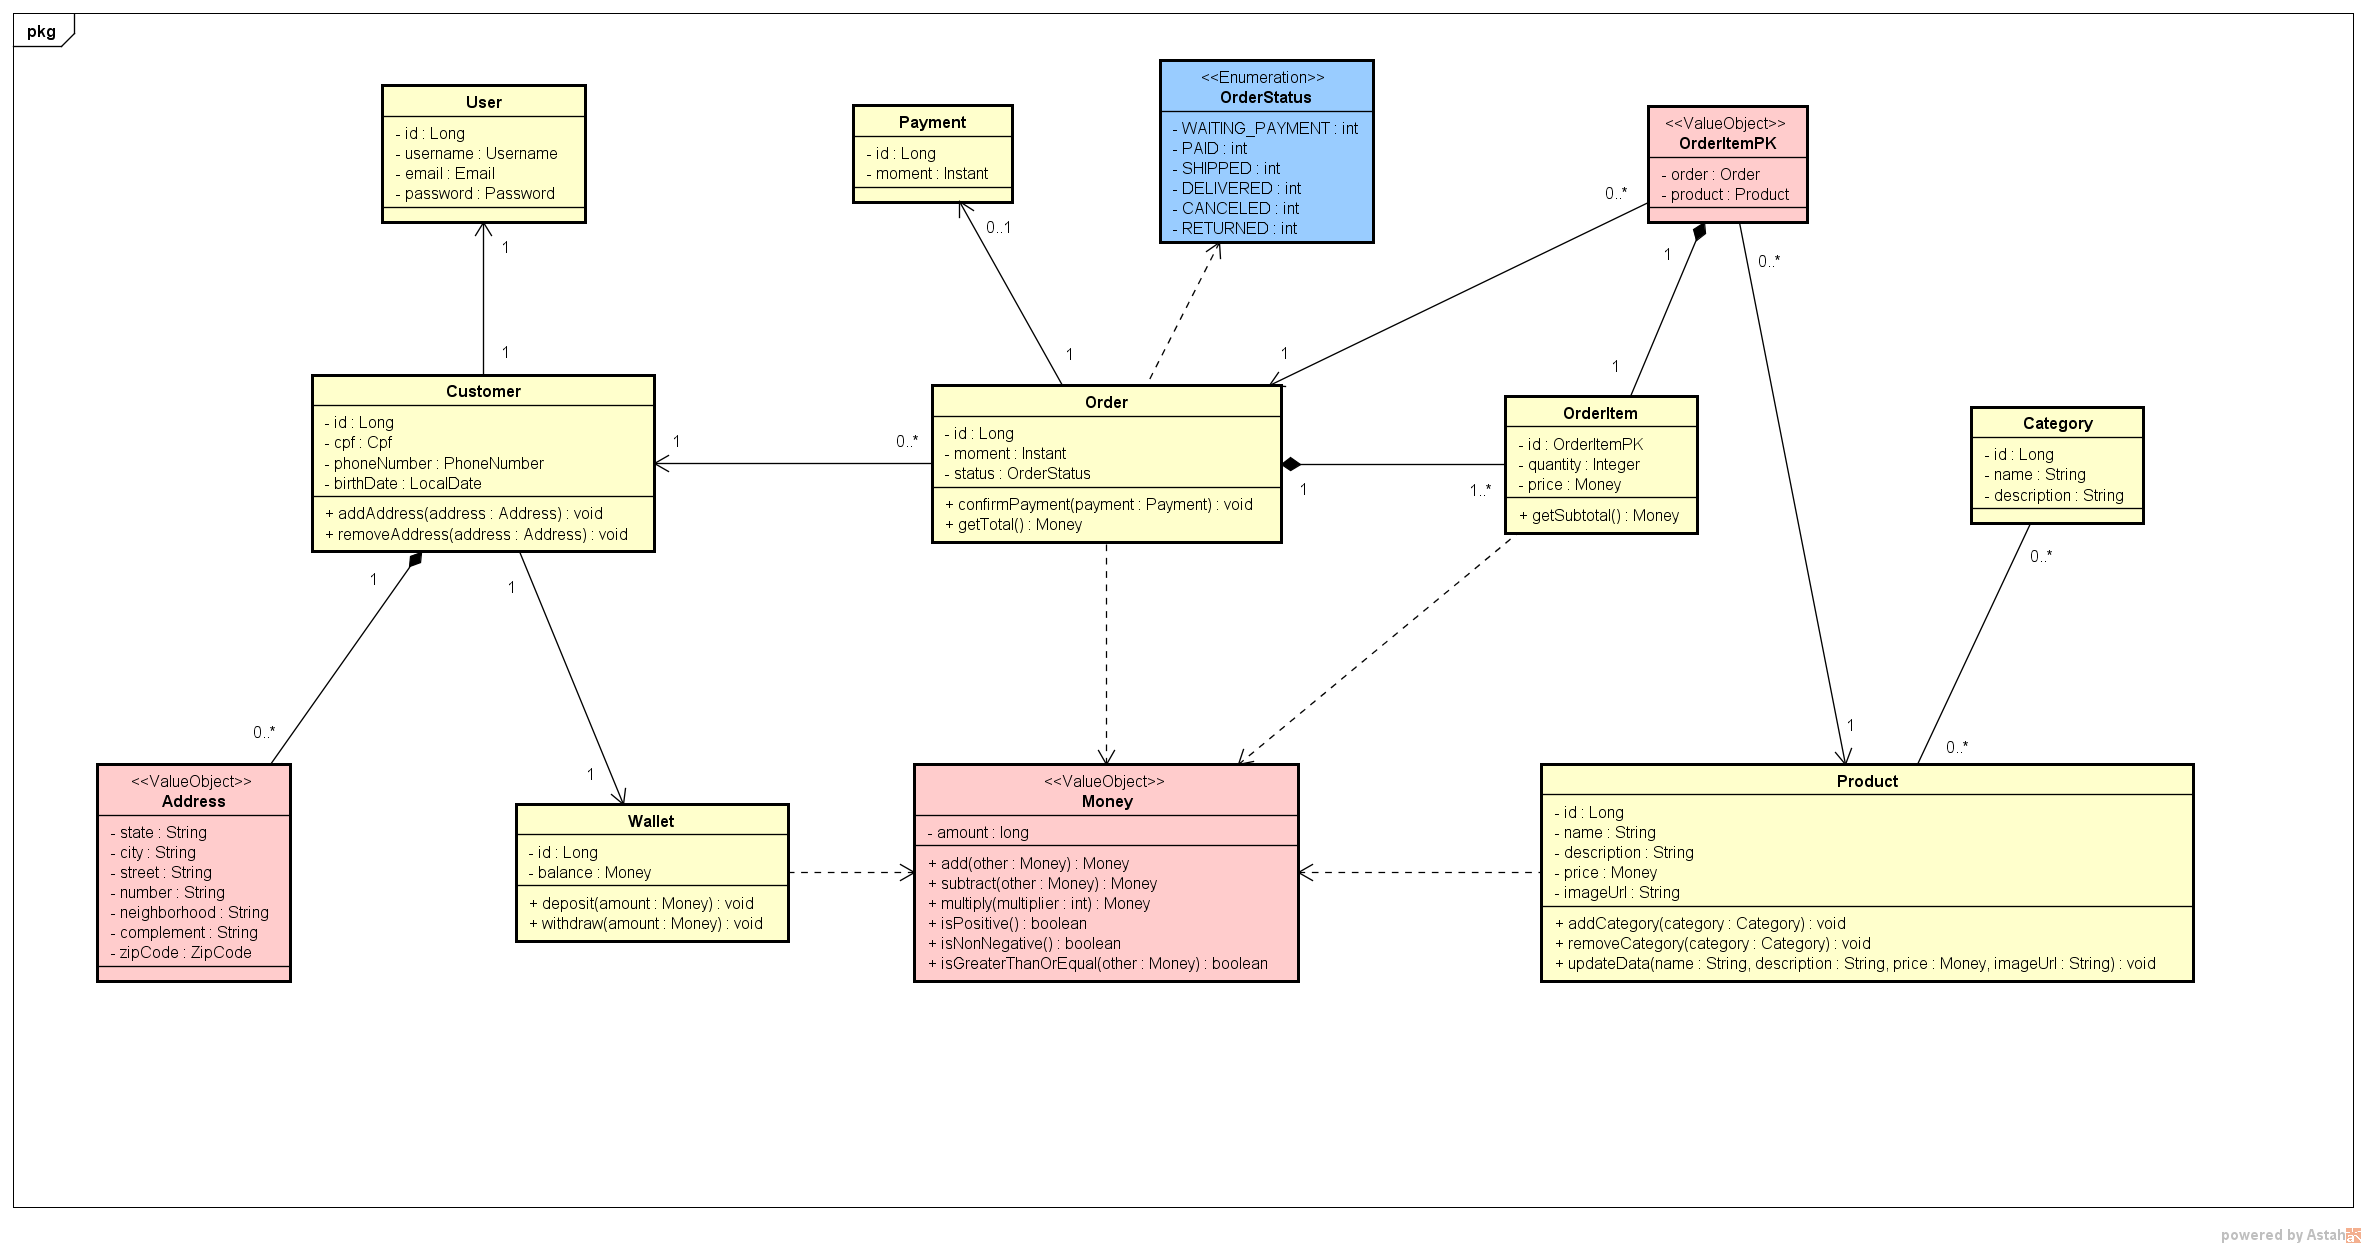
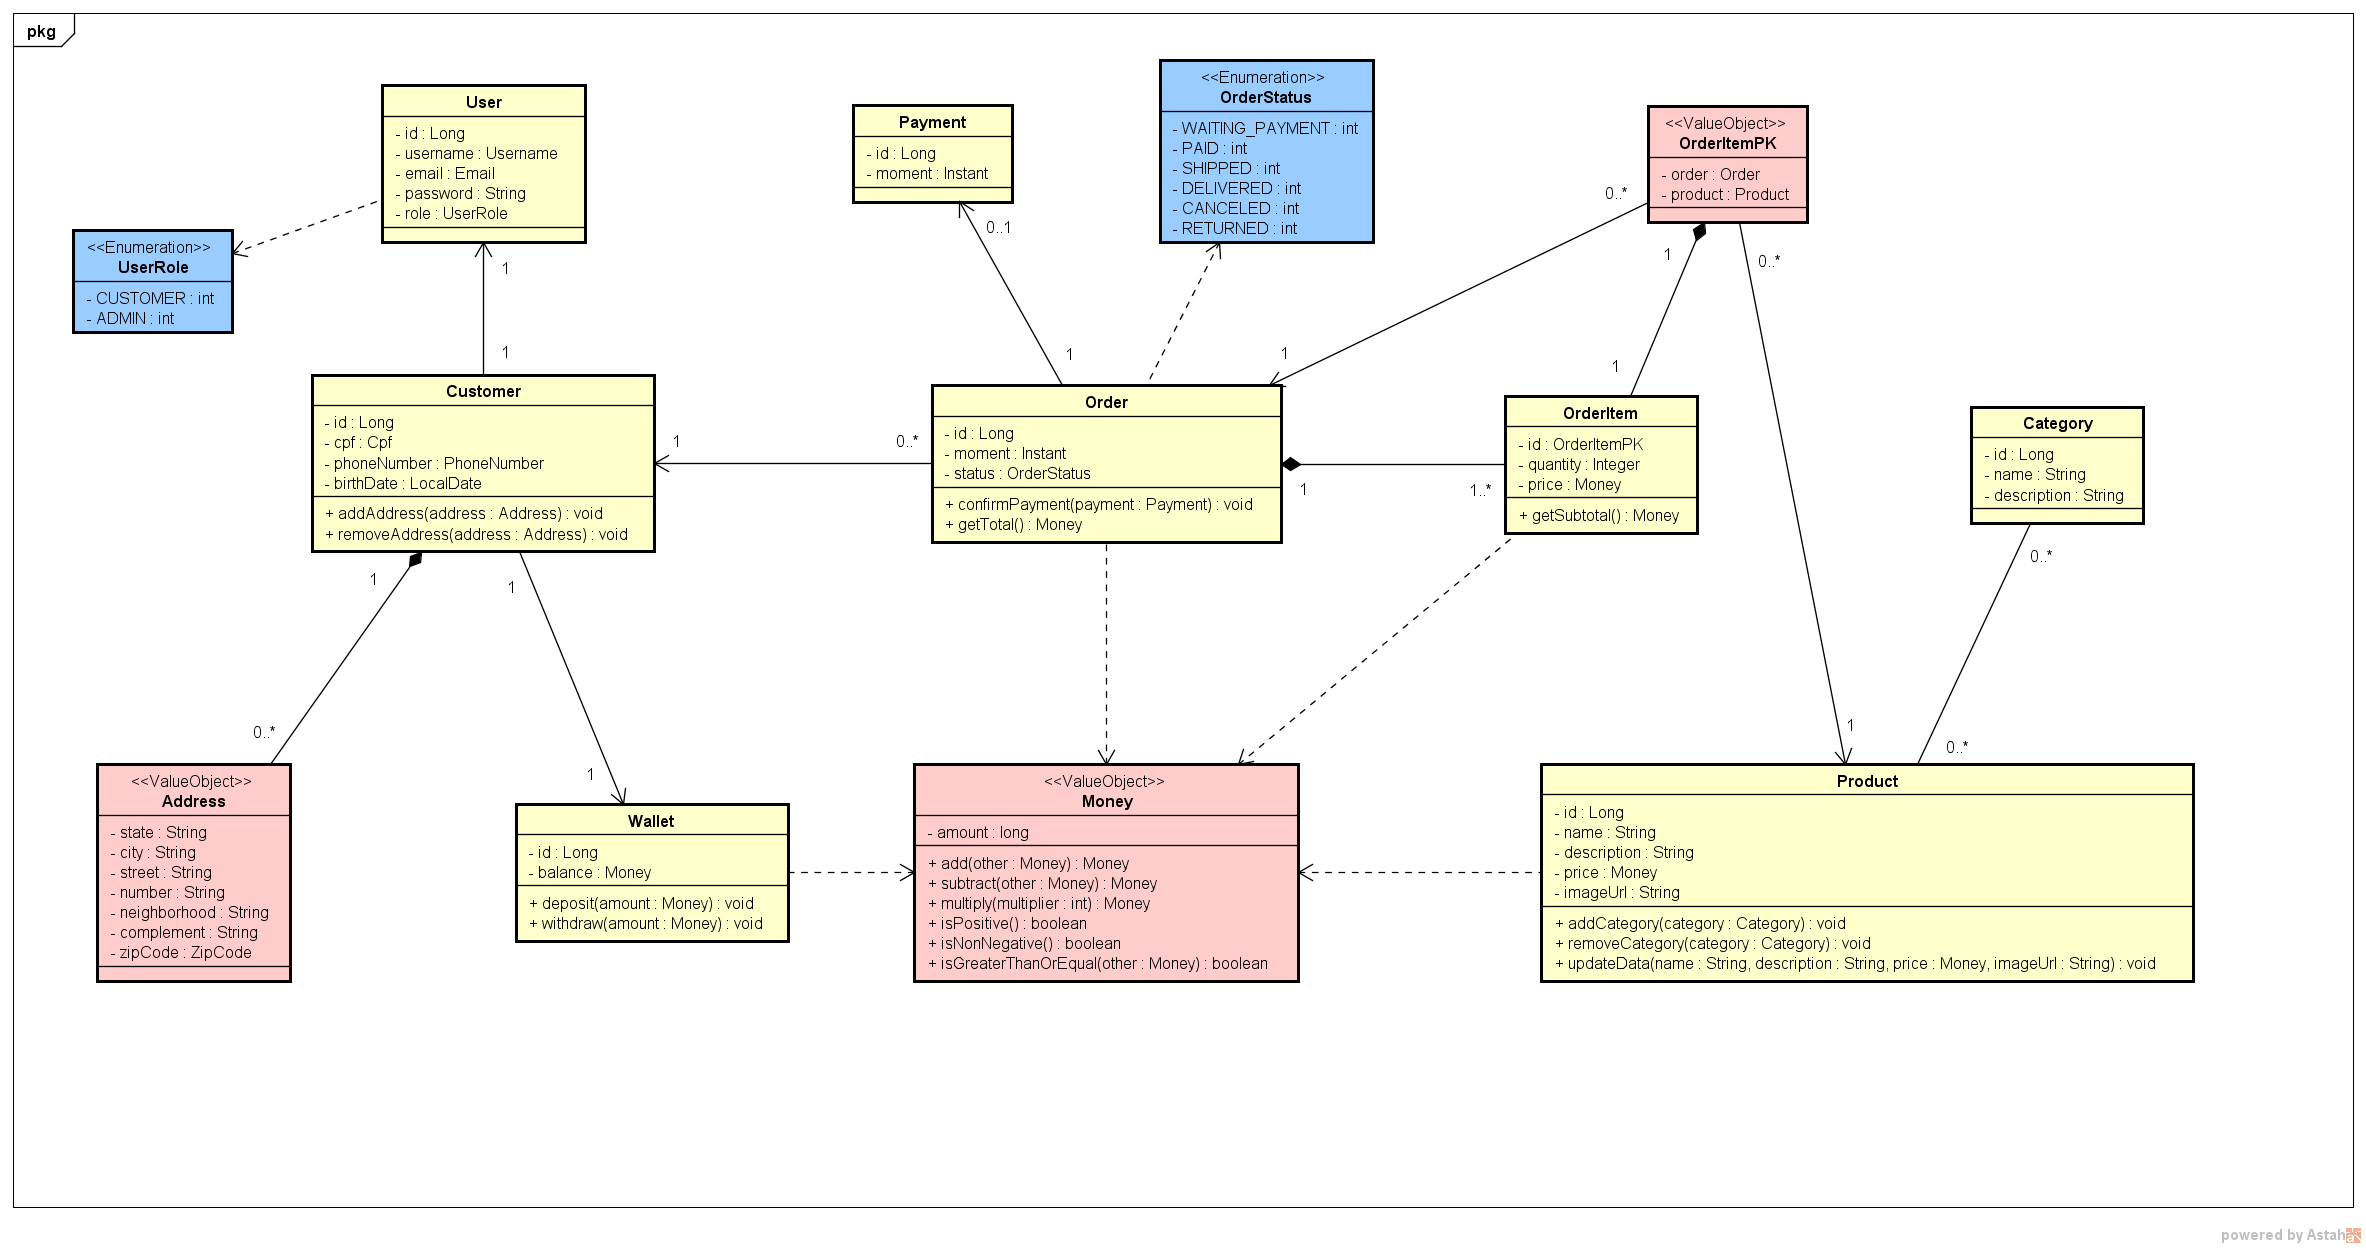
Security, registration use case and DTOs

Changed region(s): [[0.0309, 0.1562, 0.1234, 0.2812], [0.1543, 0.1562, 0.2468, 0.2188]]

diff --git a/src/main/java/io/github/theisson/ecommerce/services/application/RegisterCustomer.java b/src/main/java/io/github/theisson/ecommerce/services/application/RegisterCustomer.java
@@ -1,0 +1,71 @@
+package io.github.theisson.ecommerce.services.application;
+
+import org.springframework.beans.factory.annotation.Value;
+import org.springframework.security.crypto.password.PasswordEncoder;
+import org.springframework.stereotype.Service;
+import org.springframework.transaction.annotation.Transactional;
+import io.github.theisson.ecommerce.dto.CustomerRequestDTO;
+import io.github.theisson.ecommerce.dto.CustomerResponseDTO;
+import io.github.theisson.ecommerce.exceptions.DatabaseException;
+import io.github.theisson.ecommerce.models.entities.Customer;
+import io.github.theisson.ecommerce.models.entities.User;
+import io.github.theisson.ecommerce.models.types.*;
+import io.github.theisson.ecommerce.repositories.CustomerRepository;
+import io.github.theisson.ecommerce.repositories.UserRepository;
+
+@Service
+public class RegisterCustomer {
+    
+    private final CustomerRepository customerRepository;
+    private final UserRepository userRepository;
+    private final PasswordEncoder passwordEncoder;
+    private final String pepper;
+
+    public RegisterCustomer(
+        CustomerRepository customerRepository, 
+        UserRepository userRepository,
+        PasswordEncoder passwordEncoder,
+        @Value("${app.security.password.pepper}") String pepper
+    ) {
+        this.customerRepository = customerRepository;
+        this.userRepository = userRepository;
+        this.passwordEncoder = passwordEncoder;
+        this.pepper = pepper;
+    }
+
+    @Transactional
+    public CustomerResponseDTO execute(CustomerRequestDTO dto) {
+        if (userRepository.findByEmail(dto.email()).isPresent()) {
+            throw new DatabaseException("E-mail já cadastrado.");
+        }
+
+        if (userRepository.findByUsername(dto.username()).isPresent()) {
+            throw new DatabaseException("Nome de usuário já cadastrado.");
+        }
+
+        if (customerRepository.findByCpf(dto.cpf()).isPresent()) {
+            throw new DatabaseException("CPF já cadastrado.");
+        }
+
+        String pepperedPassword = dto.password() + pepper;
+        String hash = passwordEncoder.encode(pepperedPassword);
+
+        User user = new User(
+            new Username(dto.username()),
+            new Email(dto.email()),
+            hash,
+            UserRole.CUSTOMER
+        );
+
+        Customer customer = new Customer(
+            user,
+            new Cpf(dto.cpf()),
+            new PhoneNumber(dto.phoneNumber()),
+            dto.birthDate()
+        );
+
+        customer = customerRepository.save(customer);
+
+        return new CustomerResponseDTO(customer);
+    }
+}

diff --git a/src/main/java/io/github/theisson/ecommerce/controllers/CustomerController.java b/src/main/java/io/github/theisson/ecommerce/controllers/CustomerController.java
@@ -1,0 +1,36 @@
+package io.github.theisson.ecommerce.controllers;
+
+import java.net.URI;
+import org.springframework.http.ResponseEntity;
+import org.springframework.web.bind.annotation.PostMapping;
+import org.springframework.web.bind.annotation.RequestBody;
+import org.springframework.web.bind.annotation.RequestMapping;
+import org.springframework.web.bind.annotation.RestController;
+import org.springframework.web.servlet.support.ServletUriComponentsBuilder;
+import io.github.theisson.ecommerce.dto.CustomerRequestDTO;
+import io.github.theisson.ecommerce.dto.CustomerResponseDTO;
+import io.github.theisson.ecommerce.services.application.RegisterCustomer;
+import jakarta.validation.Valid;
+
+@RestController
+@RequestMapping("/customers")
+public class CustomerController {
+    
+    private final RegisterCustomer registerCustomer;
+
+    public CustomerController(RegisterCustomer registerCustomer) {
+        this.registerCustomer = registerCustomer;
+    }
+
+    @PostMapping
+    public ResponseEntity<CustomerResponseDTO> register(@Valid @RequestBody CustomerRequestDTO dto) {
+        CustomerResponseDTO newCustomer = registerCustomer.execute(dto);
+
+        URI uri = ServletUriComponentsBuilder.fromCurrentRequest()
+            .path("/{id}")
+            .buildAndExpand(newCustomer.id())
+            .toUri();
+
+        return ResponseEntity.created(uri).body(newCustomer);
+    }
+}

diff --git a/src/main/java/io/github/theisson/ecommerce/services/security/UserDetailsServiceImpl.java b/src/main/java/io/github/theisson/ecommerce/services/security/UserDetailsServiceImpl.java
@@ -1,0 +1,33 @@
+package io.github.theisson.ecommerce.services.security;
+
+import org.springframework.security.core.userdetails.UserDetails;
+import org.springframework.security.core.userdetails.UserDetailsService;
+import org.springframework.security.core.userdetails.UsernameNotFoundException;
+import org.springframework.stereotype.Service;
+import org.springframework.transaction.annotation.Transactional;
+import io.github.theisson.ecommerce.models.entities.User;
+import io.github.theisson.ecommerce.repositories.UserRepository;
+
+@Service
+public class UserDetailsServiceImpl implements UserDetailsService {
+    
+    private final UserRepository userRepository;
+
+    public UserDetailsServiceImpl(UserRepository userRepository) {
+        this.userRepository = userRepository;
+    }
+
+    @Override
+    @Transactional(readOnly = true)
+    public UserDetails loadUserByUsername(String login) throws UsernameNotFoundException {
+        User user = userRepository.findByEmail(login)
+            .or(() -> userRepository.findByUsername(login))
+            .orElseThrow(() -> new UsernameNotFoundException("Usuário não encontrado."));
+
+        return org.springframework.security.core.userdetails.User.builder()
+            .username(user.getEmail())
+            .password(user.getPassword())
+            .roles(user.getRole().name())
+            .build();    
+    }
+}

diff --git a/src/main/java/io/github/theisson/ecommerce/dto/CustomerRequestDTO.java b/src/main/java/io/github/theisson/ecommerce/dto/CustomerRequestDTO.java
@@ -1,0 +1,33 @@
+package io.github.theisson.ecommerce.dto;
+
+import java.time.LocalDate;
+
+import jakarta.validation.constraints.*;
+
+public record CustomerRequestDTO(
+
+    @NotBlank(message = "Campo requerido")
+    @Size(min = 3, max = 20, message = "Nome de usuário deve ter entre 3 e 20 caracteres")
+    @Pattern(regexp = "[a-zA-Z0-9]+", message = "Nome de usuário deve conter apenas letras e números")
+    String username,
+
+    @NotBlank(message = "Campo requerido")
+    @Email(message = "E-mail inválido")
+    String email,
+
+    @NotBlank(message = "Campo requerido")
+    @Size(min = 8, message = "A senha deve conter pelo menos 8 caracteres")
+    String password,
+
+    @NotBlank(message = "Campo requerido")
+    @Pattern(regexp = "\\d{11}", message = "CPF deve conter exatamente 11 dígitos numéricos")
+    String cpf,
+
+    @NotNull(message = "Campo requerido")
+    @Past(message = "A data de nascimento deve ser uma data passada")
+    LocalDate birthDate,
+
+    @NotBlank(message = "Campo requerido")
+    @Pattern(regexp = "^[1-9]{2}(?:[2-8]\\d{7}|9\\d{8})$", message = "Número de telefone inválido")
+    String phoneNumber
+) {}

diff --git a/src/main/java/io/github/theisson/ecommerce/config/SecurityConfig.java b/src/main/java/io/github/theisson/ecommerce/config/SecurityConfig.java
@@ -1,0 +1,33 @@
+package io.github.theisson.ecommerce.config;
+
+import org.springframework.context.annotation.Bean;
+import org.springframework.context.annotation.Configuration;
+import org.springframework.security.config.annotation.web.builders.HttpSecurity;
+import org.springframework.security.crypto.argon2.Argon2PasswordEncoder;
+import org.springframework.security.crypto.password.PasswordEncoder;
+import org.springframework.security.web.SecurityFilterChain;
+
+@Configuration
+public class SecurityConfig {
+    
+    @Bean
+    public PasswordEncoder passwordEncoder() {
+        return new Argon2PasswordEncoder(16, 32, 4, 65536, 3);
+    }
+
+    @Bean
+    public SecurityFilterChain securityFilterChain(HttpSecurity http) throws Exception {
+        http
+            .csrf(csrf -> csrf
+                .ignoringRequestMatchers("/h2-console/**")
+            )
+            .headers(headers -> headers
+                .frameOptions(frame -> frame.sameOrigin())
+            )
+            .authorizeHttpRequests(auth -> auth
+                .anyRequest().permitAll()
+            );
+
+        return http.build();
+    }
+}

diff --git a/src/main/java/io/github/theisson/ecommerce/models/entities/User.java b/src/main/java/io/github/theisson/ecommerce/models/entities/User.java
@@ -17,15 +17,20 @@ public class User {
     @Embedded
     private Email email;
 
-    @Embedded
-    private Password password;
+    @Column(name = "password", nullable = false, length = 255)
+    private String password;
+
+    @Column(nullable = false)
+    @Enumerated(EnumType.STRING)
+    private UserRole role;
 
     protected User() {}
 
-    public User(Username username, Email email, Password password) {
+    public User(Username username, Email email, String password, UserRole role) {
         this.username = username;
         this.email = email;
         this.password = password;
+        this.role = role;
     }
 
     public Long getId() {
@@ -41,6 +46,10 @@ public class User {
     }
 
     public String getPassword() {
-        return password.getValue();
-    }    
+        return password;
+    }
+
+    public UserRole getRole() {
+        return role;
+    }
 }

diff --git a/src/main/java/io/github/theisson/ecommerce/repositories/UserRepository.java b/src/main/java/io/github/theisson/ecommerce/repositories/UserRepository.java
@@ -1,0 +1,19 @@
+package io.github.theisson.ecommerce.repositories;
+
+import java.util.Optional;
+
+import org.springframework.data.jpa.repository.JpaRepository;
+import org.springframework.data.jpa.repository.Query;
+import org.springframework.data.repository.query.Param;
+import org.springframework.stereotype.Repository;
+import io.github.theisson.ecommerce.models.entities.User;
+
+@Repository
+public interface UserRepository extends JpaRepository<User, Long> {
+    
+    @Query("SELECT u FROM User u WHERE u.email.email = :email")
+    Optional<User> findByEmail(@Param("email") String email);
+    
+    @Query("SELECT u FROM User u WHERE u.username.username = :username")
+    Optional<User> findByUsername(@Param("username") String username);
+}

diff --git a/src/main/java/io/github/theisson/ecommerce/dto/CustomerResponseDTO.java b/src/main/java/io/github/theisson/ecommerce/dto/CustomerResponseDTO.java
@@ -1,0 +1,26 @@
+package io.github.theisson.ecommerce.dto;
+
+import java.time.LocalDate;
+
+import io.github.theisson.ecommerce.models.entities.Customer;
+
+public record CustomerResponseDTO(
+    Long id,
+    String username,
+    String email,
+    String cpf,
+    LocalDate birthDate,
+    String phoneNumber
+) {
+    
+    public CustomerResponseDTO(Customer entity) {
+        this(
+            entity.getId(),
+            entity.getUser().getUsername(),
+            entity.getUser().getEmail(),
+            entity.getCpf(),
+            entity.getBirthDate(),
+            entity.getPhoneNumber()
+        );
+    }
+}

diff --git a/src/main/java/io/github/theisson/ecommerce/repositories/CustomerRepository.java b/src/main/java/io/github/theisson/ecommerce/repositories/CustomerRepository.java
@@ -1,0 +1,17 @@
+package io.github.theisson.ecommerce.repositories;
+
+import java.util.Optional;
+
+import org.springframework.data.jpa.repository.JpaRepository;
+import org.springframework.data.jpa.repository.Query;
+import org.springframework.data.repository.query.Param;
+import org.springframework.stereotype.Repository;
+
+import io.github.theisson.ecommerce.models.entities.Customer;
+
+@Repository
+public interface CustomerRepository extends JpaRepository<Customer, Long> {
+    
+    @Query("SELECT c FROM Customer c WHERE c.cpf.cpf = :cpf")
+    Optional<Customer> findByCpf(@Param("cpf") String cpf);
+}

diff --git a/src/main/java/io/github/theisson/ecommerce/models/types/Email.java b/src/main/java/io/github/theisson/ecommerce/models/types/Email.java
@@ -7,6 +7,7 @@ import jakarta.persistence.Embeddable;
 
 @Embeddable
 public final class Email {
+    
     private static final String EMAIL_PATTERN = "^[a-zA-Z0-9.!#$%&'*+/=?^_`{|}~-]+@((\\[[0-9]{1,3}\\.[0-9]{1,3}\\.[0-9]{1,3}\\.[0-9]{1,3}\\])|(([a-zA-Z\\-0-9]+\\.)+[a-zA-Z]{2,}))$";
     private static final Pattern PATTERN = Pattern.compile(EMAIL_PATTERN);
 

diff --git a/src/main/java/io/github/theisson/ecommerce/models/types/Money.java b/src/main/java/io/github/theisson/ecommerce/models/types/Money.java
@@ -5,6 +5,7 @@ import java.math.BigDecimal;
 import java.util.Objects;
 
 public final class Money implements Serializable {
+    
     private final long amount;
 
     public Money(long amount) {

diff --git a/src/main/java/io/github/theisson/ecommerce/models/types/OrderStatus.java b/src/main/java/io/github/theisson/ecommerce/models/types/OrderStatus.java
@@ -1,6 +1,7 @@
 package io.github.theisson.ecommerce.models.types;
 
 public enum OrderStatus {
+    
     WAITING_PAYMENT("Aguardando Pagamento"),
     PAID("Pago"),
     SHIPPED("Enviado"),
